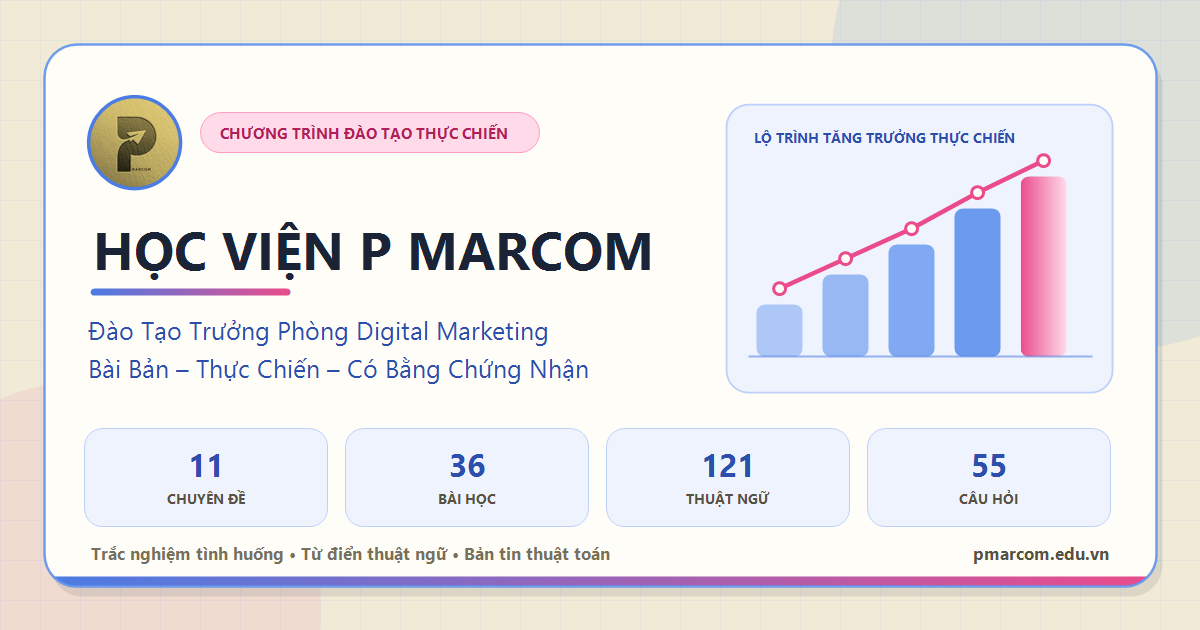
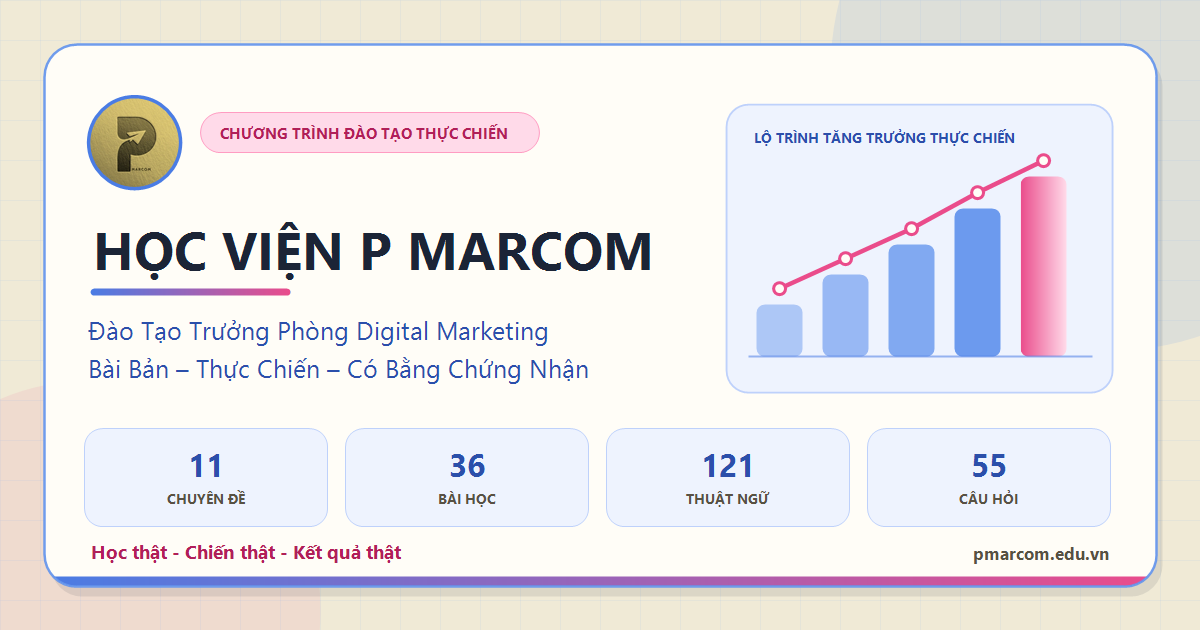
chore: tự động lưu 2 file sau phiên chỉnh sửa
Thay đổi: CHANGELOG.md, og-cover.png

Changed region(s): [[0.0617, 0.8444, 0.5242, 0.9048]]

diff --git a/CHANGELOG.md b/CHANGELOG.md
@@ -12,7 +12,7 @@ TODO — chưa có quy ước đánh phiên bản; cân nhắc gắn thẻ Git k
 
 ### Thêm mới
 
-- **Vẽ lại ảnh bìa chia sẻ `public/og-cover.png` theo bảng màu mới** — nền Egg Shell, thẻ trắng viền Indigo Dye, chip Rose Pink, tiêu đề navy, biểu đồ tăng trưởng chuyển từ Indigo sang Rose Pink, dải chuyển sắc ở chân thẻ. Bản cũ vẫn là tông xanh lá + vàng đồng vì là ảnh nướng sẵn, không ăn theo thang màu Tailwind như phần còn lại của app. Bìa dựng bằng GDI+ nên tái tạo lại được, số liệu trên bìa (11 chuyên đề, 36 bài học, 121 thuật ngữ, 55 câu hỏi) đọc từ dữ liệu thật.
+- **Vẽ lại ảnh bìa chia sẻ `public/og-cover.png` theo bảng màu mới** — nền Egg Shell, thẻ trắng viền Indigo Dye, chip Rose Pink, tiêu đề navy, biểu đồ tăng trưởng chuyển từ Indigo sang Rose Pink, dải chuyển sắc ở chân thẻ. Bản cũ vẫn là tông xanh lá + vàng đồng vì là ảnh nướng sẵn, không ăn theo thang màu Tailwind như phần còn lại của app. Bìa dựng bằng GDI+ nên tái tạo lại được, số liệu trên bìa (11 chuyên đề, 36 bài học, 121 thuật ngữ, 55 câu hỏi) đọc từ dữ liệu thật. Chân bìa mang slogan chính thức **"Học thật - Chiến thật - Kết quả thật"** do chủ dự án cung cấp.
 - **Bản tin thuật toán được viết lại thành bài viết đầy đủ** — từ 5 tin rút gọn lên **16 bài** (`src/data/newsData.js`), mỗi bài có nguồn tham chiếu, ngày đăng, thời lượng đọc, thẻ chủ đề, 2-3 số liệu chính, thân bài 3-4 phần phân tích, mục "cái giá nếu bỏ qua" và mốc thời gian áp dụng. Tổng 63 phần thân bài. Kho tin mô phỏng nâng từ 3 lên 6 mục, cùng cấu trúc.
 - **14 tranh minh hoạ SVG nội tuyến cho tin tức** (`src/components/NewsIllustration.jsx`) — thay ảnh stock Unsplash trước đây. Mỗi tranh vẽ đúng nội dung bài: thuật toán phân bổ ngân sách, sức khoẻ gian hàng, tìm kiếm không nhấp chuột, nhân bản video bằng AI, xác thực tài khoản, hoa hồng liên kết, loại trừ từ khoá, bão hoà nội dung, tín hiệu dữ liệu, phát trực tiếp, đấu giá hiển thị, tự động hoá chăm sóc, nhãn nội dung AI, tốc độ trang. Cùng lý do kỹ thuật với `LessonIllustration`: không phát sinh yêu cầu mạng nên không vỡ ảnh, nét sắc ở mọi độ phân giải.
 - **Cửa sổ đọc chi tiết bài viết** — thẻ tin giữ phần tóm tắt để lướt nhanh, toàn bộ thân bài, tác động, rủi ro và danh sách việc cần chỉ đạo chuyển vào cửa sổ riêng.
